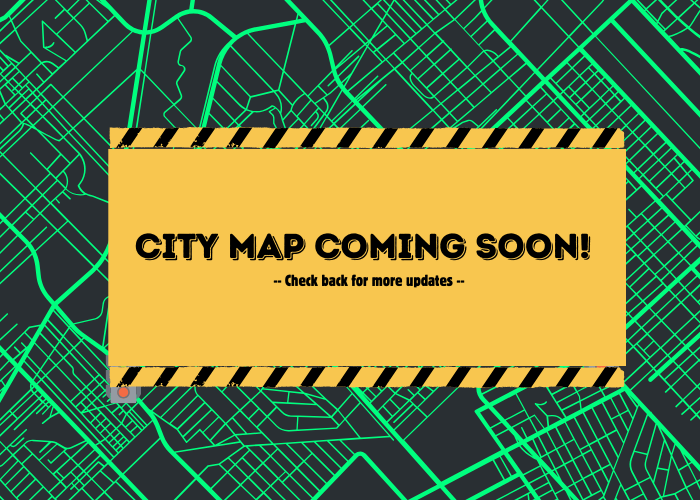
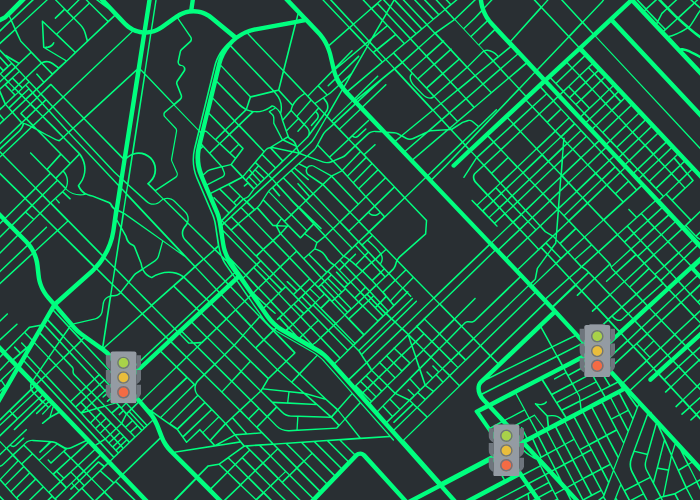
First round of traffic lights are live on the site

diff --git a/templates/index.html b/templates/index.html
@@ -41,7 +41,7 @@
     <body>
         <div class="header"><h2>Connected Streets - Live View</h2></div>
         <div class="main">
-            <div><strong>A message from the mayor: </strong>As we roll out our new smart traffic grid, we're committing to keeping you--our constituents--informed. Check back for updates on where the smart traffic lights will be deployed as part of our pilot program.</div>
+            <div><strong>A message from the mayor: </strong>As we roll out our new smart traffic grid, we're committing to keeping you--our constituents--informed. We've rolled out the first few smart traffic lights for phase 1! Check back soon for more updates. </div>
             <img src="/images/citymap.png" alt="City map coming soon!">
         </div>
     </body>
